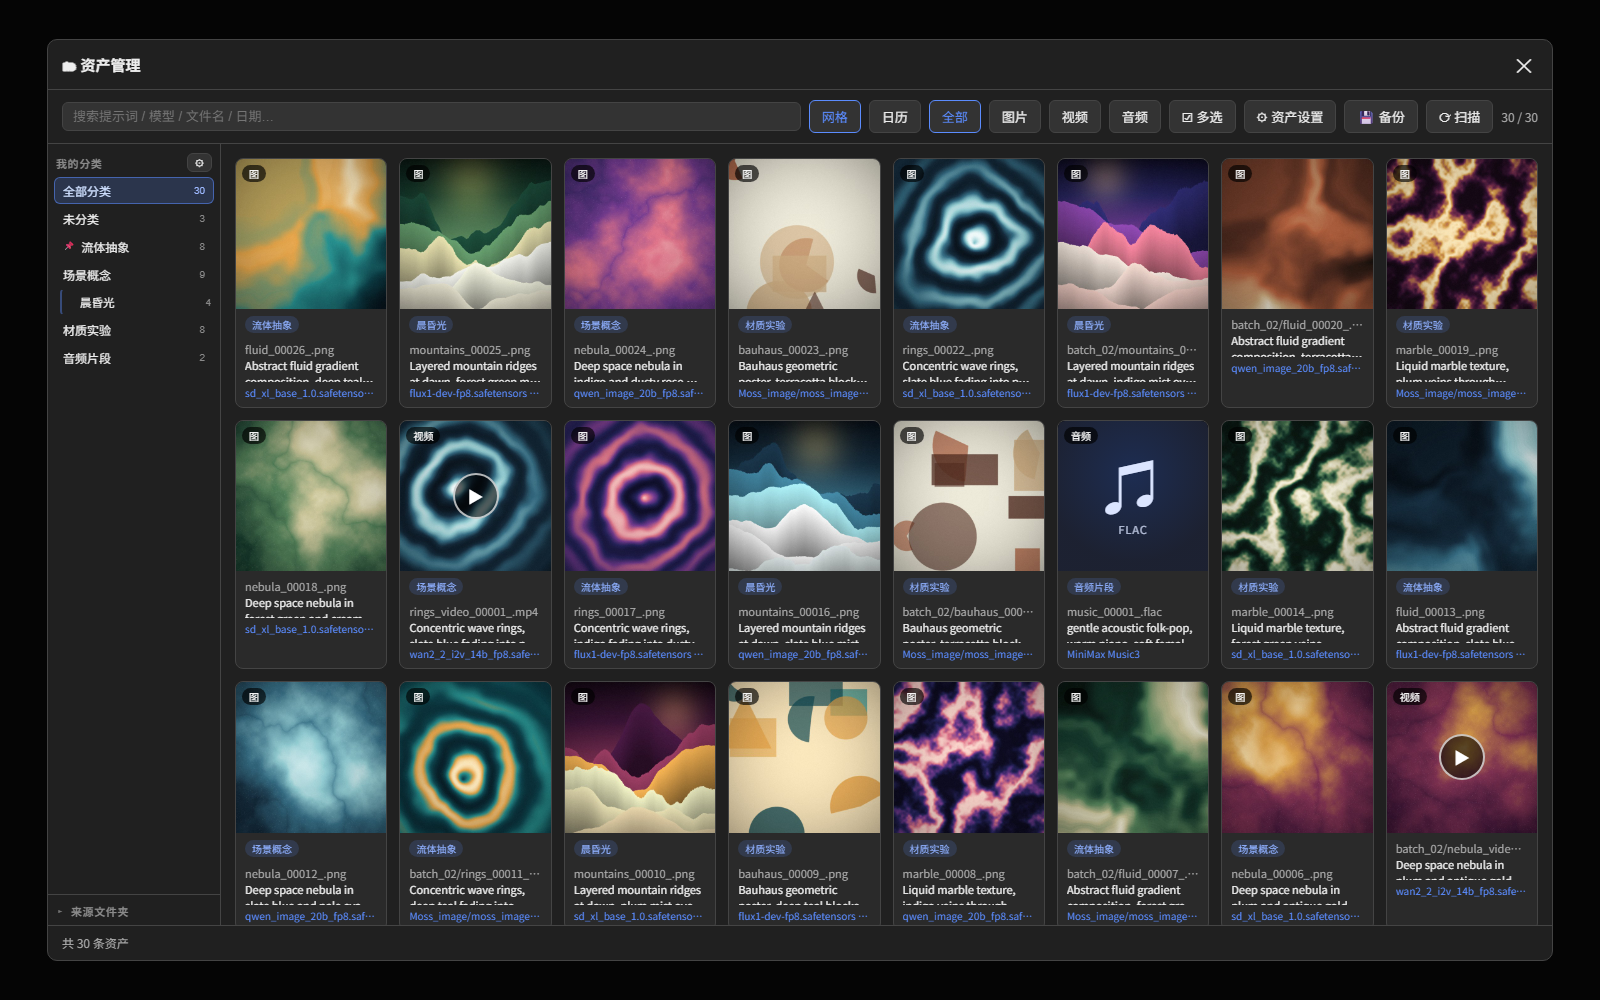
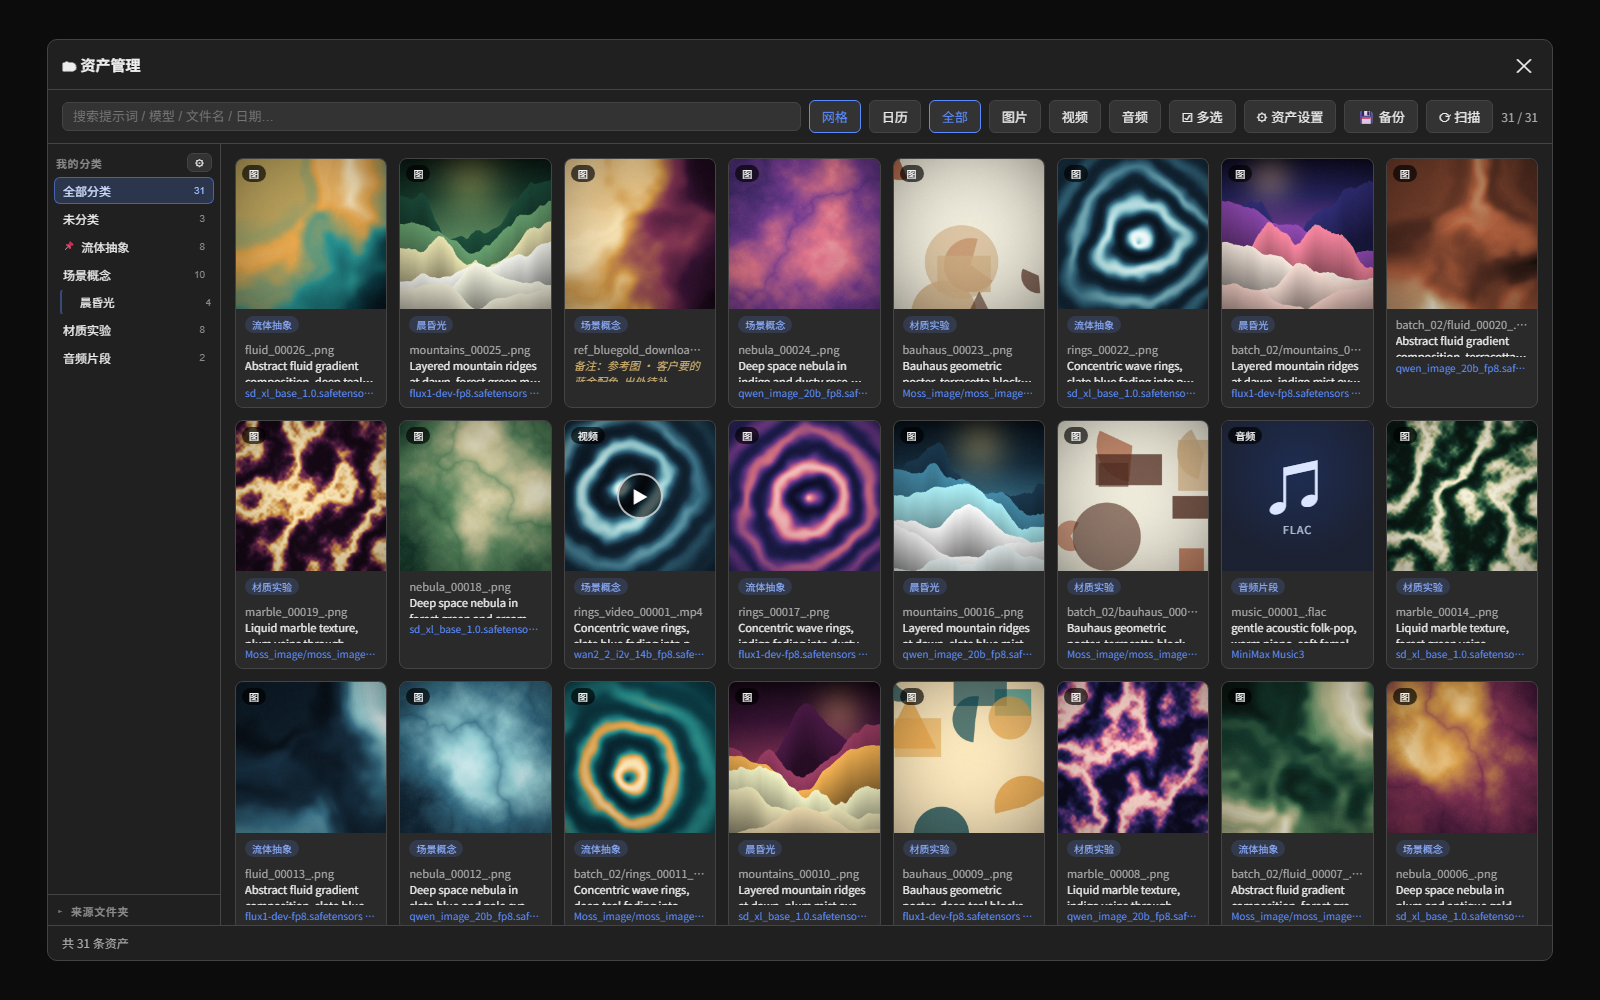
fix(ui): keep the preview actions reachable once the dialog grows
Adding the note box pushed the preview dialog past the viewport on a 1080p
screen, so "下载 workflow.json" / "从硬盘删除" ended up below the fold with
no visual cue.

- the action row + hint now sit in a sticky footer pinned to the dialog's
  bottom edge, so they stay reachable however long the prompt or note is
- the note box gets its own 64px height instead of inheriting the 130px
  prompt box, and keeps its save button directly underneath
- image cap 70vh -> 62vh so the dialog usually fits without scrolling

Screenshots refreshed from the demo archive (the grid now shows a note on a
downloaded reference image, the preview shows the note field).

diff --git a/web/js/asset-manager.js b/web/js/asset-manager.js
@@ -161,7 +161,9 @@ const STYLE = `
 .asm-modal .x:focus-visible { outline:2px solid #5b8cff; outline-offset:2px; }
 /* 预览弹窗给关闭按钮留出一条空档, 不让它压住画面 */
 .asm-modal .pn.preview { padding-top:42px; }
-.asm-modal img { max-height:70vh; object-fit:contain; }
+.asm-modal img { max-height:62vh; object-fit:contain; }
+/* 预览底部按钮粘在弹窗底边: 提示词/备注再长也不会把"删除""下载 workflow"挤出可视区 */
+.asm-modal .pn.preview .pv-foot { position:sticky; bottom:-18px; z-index:2; margin:10px -18px -18px; padding:8px 18px 14px; background:var(--comfy-menu-bg,#202020); border-top:1px solid var(--border-color,#444); }
 /* 设置 */
 .asm-set { margin:4px 0; }
 .asm-set .row { display:flex; gap:8px; align-items:center; margin:8px 0; font-size:13px; }
@@ -1400,7 +1402,7 @@ app.registerExtension({
 
       // 手动备注: 给提不出提示词的产物(网图/截图/转存图)补一句自己的说明。
       // 只写归档目录的 info.json, 不动媒体文件; 会参与搜索匹配。
-      const noteTa = $el("textarea", { textContent: r.note || "", rows: 2 });
+      const noteTa = $el("textarea", { textContent: r.note || "", rows: 2, style: { height: "64px" } });
       bindText(noteTa, "给这条资产加一句备注(写进 info.json, 可被搜索)", "placeholder");
       const noteSave = bindText($el("button.asm-btn", {
         onclick: async () => {
@@ -1439,12 +1441,14 @@ app.registerExtension({
         bindText($el("label", { style: { fontSize: "12px", display: "block", marginTop: "10px" } }), "备注"),
         noteTa,
         $el("div.btns", { style: { marginTop: "6px" } }, [noteSave]),
-        $el("div.btns", {}, [
-          bindText($el("button.asm-btn", { onclick: () => { ta.select(); navigator.clipboard?.writeText(ta.value).then(() => statusMsg(t("已复制"))); } }), "复制提示词"),
-          bindText($el("button.asm-btn.primary", { onclick: () => downloadWorkflow(r) }), "下载 workflow.json"),
-          bindText($el("button.asm-btn.danger", { onclick: () => doDelete(r, m) }), "🗑 从硬盘删除"),
+        $el("div.pv-foot", {}, [
+          $el("div.btns", {}, [
+            bindText($el("button.asm-btn", { onclick: () => { ta.select(); navigator.clipboard?.writeText(ta.value).then(() => statusMsg(t("已复制"))); } }), "复制提示词"),
+            bindText($el("button.asm-btn.primary", { onclick: () => downloadWorkflow(r) }), "下载 workflow.json"),
+            bindText($el("button.asm-btn.danger", { onclick: () => doDelete(r, m) }), "🗑 从硬盘删除"),
+          ]),
+          bindText($el("div", { style: { fontSize: "11px", color: "var(--descrip-text,#aaa)", marginTop: "8px" } }), "💡 下载 workflow.json 后拖进 ComfyUI 画布, 即可完整还原整套工作流(节点+连线)。"),
         ]),
-        bindText($el("div", { style: { fontSize: "11px", color: "var(--descrip-text,#aaa)", marginTop: "8px" } }), "💡 下载 workflow.json 后拖进 ComfyUI 画布, 即可完整还原整套工作流(节点+连线)。"),
       ]);
       m.appendChild($el("div.bk", { onclick: () => m.remove() }));
       m.appendChild(pn);
